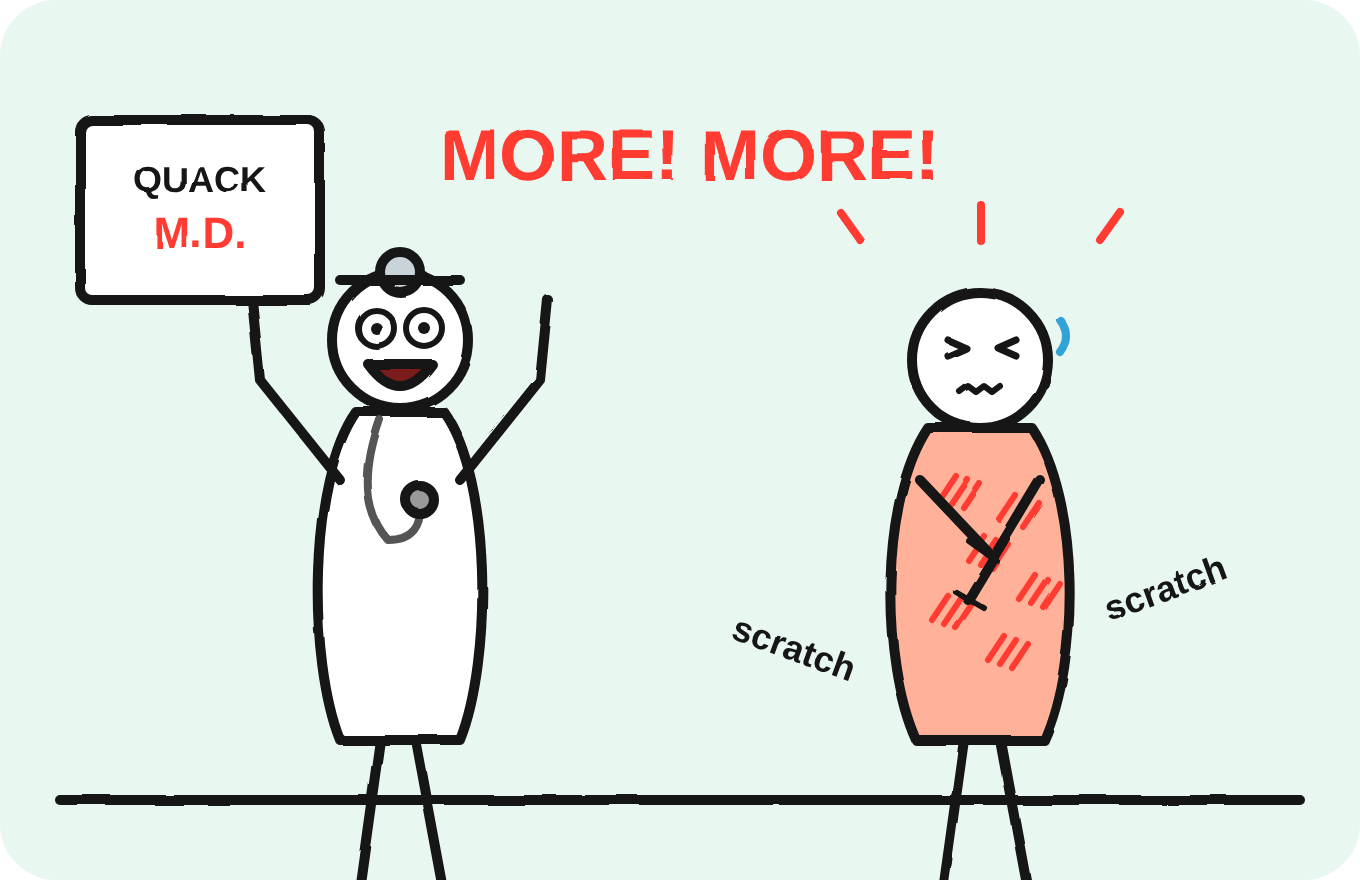
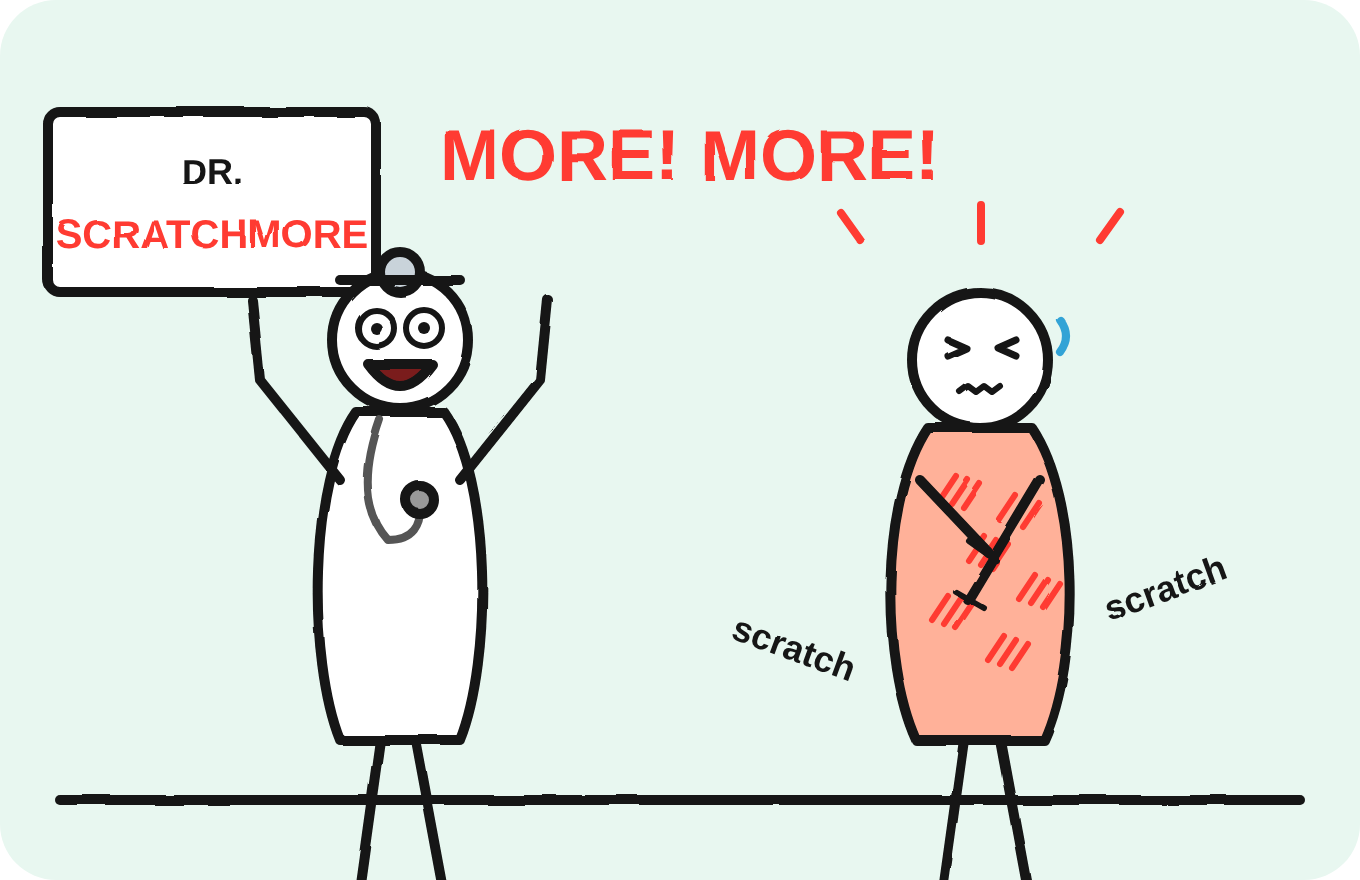
Dr. Scratchmore named and called back; DSM-5 vs ICD-11; the counselor whose life doesn't match the advice
Claude-Session: https://claude.ai/code/session_01PmUGncS23cvSndhEXcR2SH

Changed region(s): [[0.0309, 0.1227, 0.2779, 0.3682]]

diff --git a/tools/draw_illustrations.py b/tools/draw_illustrations.py
@@ -3146,7 +3146,7 @@ def batch39(OUT):
     # The world's medical advice: a quack doctor cheering a man scratching himself raw (The World's Lies)
     s=head(W,H,"#E8F7F0")
     s+='<line x1="30" y1="400" x2="650" y2="400"/>'
-    s+='<rect x="40" y="60" width="120" height="90" rx="6" fill="#fff"/>'+T(100,96,"QUACK",18,"#141414")+T(100,124,"M.D.",22,"#FF3B30")
+    s+='<rect x="24" y="56" width="164" height="90" rx="6" fill="#fff"/>'+T(106,92,"DR.",18,"#141414")+T(106,124,"SCRATCHMORE",20,"#FF3B30")
     # doctor
     dx,dy=200,170
     s+=f'<path d="M{dx-22},{dy+36} C{dx-46},{dy+70} {dx-46},{dy+160} {dx-30},{dy+200} L{dx+30},{dy+200} C{dx+46},{dy+160} {dx+46},{dy+70} {dx+22},{dy+36} Z" fill="#fff"/>'

diff --git a/chapters/04-the-worlds-lies.md b/chapters/04-the-worlds-lies.md
@@ -6,7 +6,7 @@
 
 The flesh supplies the itch. The world supplies the reasons to scratch it.
 
-Picture a man with a rash. He goes to the doctor, and the doctor leans in and says, "Keep scratching. More. MORE!" You'd walk out and find another doctor. That's the world's whole medical advice for this itch, and you've been taking it for years.
+Picture a man with a rash. He goes to the doctor. Call him Dr. Scratchmore. The doctor leans in and says, "Keep scratching. More. MORE!" You'd walk out and find another doctor. That's the world's whole medical advice for this itch, and you've been taking it for years.
 
 ![](images/illustrations/worlds-lies-keep-scratching.png){.illustration width=80%}
 
@@ -33,6 +33,12 @@ Start with the loudest lies, the ones about masturbation. Your grandfather was t
 ![](images/illustrations/worlds-lies-crowded-trap.png){.illustration width=80%}
 
 **"It's healthy. It's harmless. Doctors say so."** Medicine says it doesn't hurt your body. Fine, but the doctor is answering a question you never asked. You didn't ask about your prostate. You asked why you can't stop, and why you feel like a smaller man afterward. A Christian writer put the distinction neatly: "But just because something isn't harmful physically doesn't mean it's not harmful spiritually."
+
+The experts don't even agree among themselves. The manual American psychiatrists use, the DSM-5, doesn't list porn or sex addiction at all. The World Health Organization does. Since 2019 its list of diseases, the ICD-11, has included compulsive sexual behavior disorder. So when you hear that the experts say it's fine, ask which experts.
+
+Then ask whose life is backing the advice. Picture a man who finally tells a counselor about his habit. The counselor tells him it's not really that bad. A few sessions later, the counselor is cheering on his idea of a threesome with his girlfriend. Is that medicine? Or is it somebody feeding the same monster, telling him what they tell themselves?
+
+Experts are people. They live in the same world and hear the same pitch. Plenty of counselors help men get free, and if you need one, go find one. Just pick one whose life matches the advice.
 
 **"I'm not doing anything wrong."** Then say it out loud. Say it to your wife, or your mother, or the father of the woman on the screen. A thing that's fine can be said at the dinner table. You've never said this one to anybody.
 
@@ -145,3 +151,5 @@ Those are the lies about the hand. Porn has its own set, and somebody else pays 
 <!-- 2026-11-28 (James: 'Could you imagine having a rash and the doctor says keep scratching!!!!! More. MORE!'). Added after the opening line, with drawing worlds-lies-keep-scratching (batch39). Not a repeat of the cream-and-rash picture in What Am I Giving Up?, which is about the cure, not the advice. -->
 
 <!-- 2026-11-28 MAP PASS (James at ch15: confused by the metaphors; 'make 15 onward as good as you can'). Terms made consistent with chapter 6's map: the house is the reader's head (the world carries dirt into it), the Big Monster is believed lies in your voice, 'Lust' no longer acts as a character, the devil caveat for non-believers kept once (The World's Lies) instead of in every chapter. -->
+
+<!-- 2026-11-28 (James: the quack doctor image sticks; name him and give light reminders; DSM-5 vs ICD-11; a counselor who said it wasn't that bad and cheered a threesome idea, told as an anonymous archetype). Dr. Scratchmore named in The World's Lies and called back here. ICD-11 6C72 Compulsive sexual behaviour disorder (WHO, adopted 2019); DSM-5 (2013) has no porn or sex addiction diagnosis. -->

diff --git a/chapters/11-the-willpower-method.md b/chapters/11-the-willpower-method.md
@@ -60,7 +60,7 @@ It wasn't only weakness. He changed his mind. At that moment he believed he was 
 
 Here's the false information in one line. "What's the point of a clean conscience if I'm miserable?" Fair question, and the answer is that you won't be. A life without the habit isn't gray and twitchy. The willpower man's misery doesn't come from the Little Monster, who's tiny. It comes from believing he's given something up. So he feels deprived, and feeling deprived is a strain all by itself. Under strain the old voice says "go on", and now he can't. So he feels more deprived still.
 
-That's why nobody here is asking you to hold out. When he bangs tonight, you can carry the plate up. There's no rule against it, and nobody's keeping score. The only question worth asking is whether you need to.
+That's why nobody here is asking you to hold out. When he bangs tonight, you can carry the plate up. There's no rule against it, and nobody's keeping score. The only question worth asking is whether you need to. Scratch the itch if you like. Just remember who wrote that prescription. Dr. Scratchmore would be thrilled.
 
 That's the method at its best. Now add a scoreboard.
 
@@ -108,3 +108,5 @@ That's the method at its best. Now add a scoreboard.
 <!-- 2026-11-23 DICTION PASS (James: lift every chapter to the standard of the Introduction's monster passage): stock phrases and vague nouns swapped for concrete pictures. Old wording is in git. -->
 
 <!-- 2026-11-27 PROOF LOOP (James, tempted: 'I CAN watch it, but do I really need to feed that little monster?'; wants light reminders sprinkled through the book: you can, nobody is stopping you, the urge is the Little Monster asking, no pressure, no force). One short reminder added here, worded differently in each chapter. Never a vow, never willpower. -->
+
+<!-- 2026-11-28 (James: the quack doctor image sticks; name him and give light reminders; DSM-5 vs ICD-11; a counselor who said it wasn't that bad and cheered a threesome idea, told as an anonymous archetype). Dr. Scratchmore named in The World's Lies and called back here. ICD-11 6C72 Compulsive sexual behaviour disorder (WHO, adopted 2019); DSM-5 (2013) has no porn or sex addiction diagnosis. -->

diff --git a/chapters/05c-the-lonely-room.md b/chapters/05c-the-lonely-room.md
@@ -36,7 +36,7 @@ It was never the habit that made those moments bearable. The evening off, the wa
 
 A man who believes he needs the habit to cope will reach for it every time life leans on him. A man who knows he doesn't need it has nothing left to reach for.
 
-So the next time life leans on you, remember you're allowed. No rule in this book says you can't. Ask one small thing first. Do I need this, or does he?
+So the next time life leans on you, remember you're allowed. No rule in this book says you can't. Ask one small thing first. Do I need this, or does he? And if you do go up the stairs, listen for Dr. Scratchmore downstairs, yelling "MORE!"
 
 Come to me, Jesus says, and I will give you rest. That's better than relief, and you know the difference. Relief is what you've been buying every night for years, and it has never lasted until morning.
 
@@ -51,3 +51,5 @@ Come to me, Jesus says, and I will give you rest. That's better than relief, and
 <!-- 2026-11-23 DICTION PASS (James: lift every chapter to the standard of the Introduction's monster passage): stock phrases and vague nouns swapped for concrete pictures. Old wording is in git. -->
 
 <!-- 2026-11-27 PROOF LOOP (James, tempted: 'I CAN watch it, but do I really need to feed that little monster?'; wants light reminders sprinkled through the book: you can, nobody is stopping you, the urge is the Little Monster asking, no pressure, no force). One short reminder added here, worded differently in each chapter. Never a vow, never willpower. -->
+
+<!-- 2026-11-28 (James: the quack doctor image sticks; name him and give light reminders; DSM-5 vs ICD-11; a counselor who said it wasn't that bad and cheered a threesome idea, told as an anonymous archetype). Dr. Scratchmore named in The World's Lies and called back here. ICD-11 6C72 Compulsive sexual behaviour disorder (WHO, adopted 2019); DSM-5 (2013) has no porn or sex addiction diagnosis. -->

diff --git a/chapters/05-the-times-we-reach-for-it.md b/chapters/05-the-times-we-reach-for-it.md
@@ -36,7 +36,7 @@ You're carrying two loads. One is the day's real trouble. The other is the Littl
 
 ![](images/illustrations/times-two-loads.png){.illustration width=80%}
 
-So be honest about last time. Did the edge come off? Or did a tantrum just stop for an hour?
+So be honest about last time. Did the edge come off? Or did a tantrum just stop for an hour? You can scratch it again tonight if you want. Just picture Dr. Scratchmore at your elbow, cheering.
 
 The habit takes credit for easing a pressure it largely built.
 
@@ -96,3 +96,5 @@ Those are the big days. Most of the habit happens on the small ones, in the last
 <!-- 2026-11-24 PROOF LOOP (James, 2 a.m., high stress: 'trying to get the edge off, I know it's a lie'; wants a reminder beside the no-cutting-down rule: did you really get the edge off, or give in to the monster's tantrum?). Same question closes the stress answer here. -->
 
 <!-- 2026-11-28 MAP PASS (James at ch15: confused by the metaphors; 'make 15 onward as good as you can'). Terms made consistent with chapter 6's map: the Big Monster is believed lies in your voice; the world sells some lies and you write some. -->
+
+<!-- 2026-11-28 (James: the quack doctor image sticks; name him and give light reminders; DSM-5 vs ICD-11; a counselor who said it wasn't that bad and cheered a threesome idea, told as an anonymous archetype). Dr. Scratchmore named in The World's Lies and called back here. ICD-11 6C72 Compulsive sexual behaviour disorder (WHO, adopted 2019); DSM-5 (2013) has no porn or sex addiction diagnosis. -->
